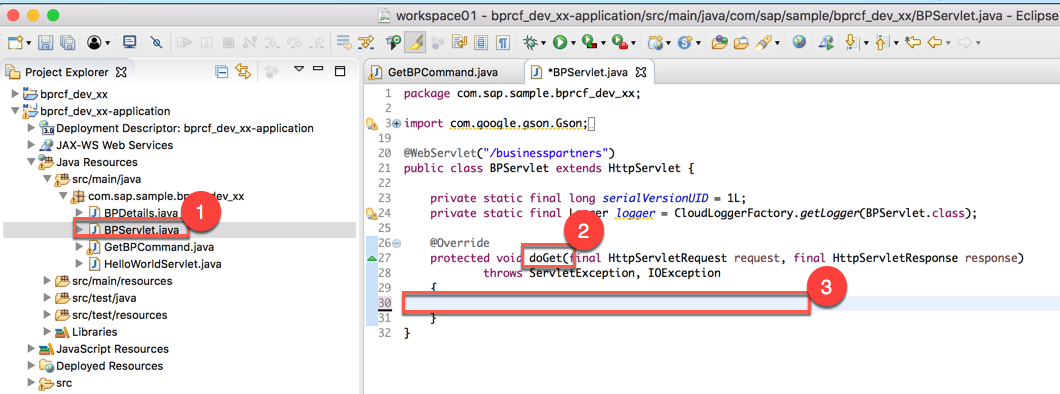
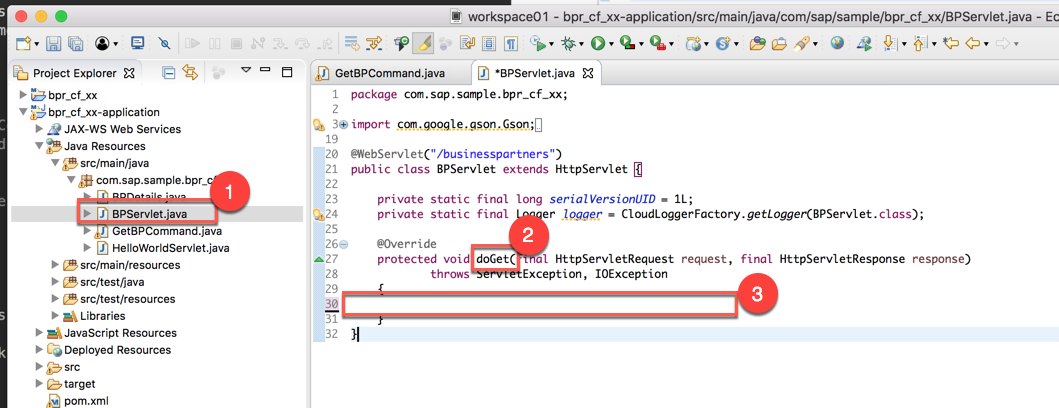
Exercise 08 updated

Changed region(s): [[0.0, 0.0, 1.0, 1.0]]

diff --git a/Exercise_08/Exercise_08.md b/Exercise_08/Exercise_08.md
@@ -11,7 +11,7 @@ In this exercise, you’ll learn how
 * to adapt the integration tests accordingly
 
 **Resiliency** is the ability to deal with failure: if an application can deal with failures, we call it resilient. So resilience is the means by which we achieve availability.
-The SAP S/4HANA Cloud SDK builds upon the Hystrix library in order to provide resilience for your cloud applications. Hystrix comes with many interlocking mechanisms to protect your application from failures. The most important are timeouts, thread-pools and circuit-breakers.
+The SAP S/4HANA Cloud SDK builds upon the [Hystrix](https://github.com/Netflix/Hystrix/wiki) library in order to provide resilience for your cloud applications. Hystrix comes with many interlocking mechanisms to protect your application from failures. The most important are timeouts, thread-pools and circuit-breakers.
 
 - **Timeouts**: Hystrix allows setting custom timeout durations for every remote service. If the response time of a remote service exceeds the specified timeout duration, the remote service call is considered as failure. This value should be adapted according to the mean response time of the remote service
 - **Thread-pools**: By default, every command has a separate thread-pool from which it can requests threads to execute the remote service call in. This has multiple benefits: every command is isolated from your application, so whatever happens in these threads will not affect the performance of your application. Also, the usage of threads allows Hystrix to perform remote service calls asynchronously and concurrently. These threads are non-container-managed, so regardless of how many threads are used by your Hystrix commands, they do not interfere with your runtime container.
@@ -49,14 +49,17 @@ Here below are prerequisites for this exercise.
 
 
 ### <a name="make-resilient"></a> Make the application resilient
-In this chapter you are going to see how to make the application resilient. In the previous exercise we created a simple servlet that uses the SDK’s OData abstractions to retrieve Business Partners from a S/4HANA system. In order to make this servlet resilient, we have to wrap it in an **ErpCommand**. 
+In this chapter you are going to see how to make the application resilient. In the previous exercise we created a simple servlet that uses the SDK’s OData abstractions to retrieve Business Partners from a S/4HANA Cloud system. In order to make this servlet resilient, we have to wrap it in an **ErpCommand**. 
 
 1. Open Eclipse IDE and load the project created in the previous exercise  
 	![](images/01.png)
+
 1. Right click on the the **application** module and select **New -> Class**  
 	![](images/02.png)
+
 1. Create a new Java class named **GetBPCommand** and click **Finish**  
 	![](images/03.png)
+
 1. Paste in the following content (remember that **xx** must be replaced with your workstation ID) and **save** the file. As you can see here we are wrapping the same query we have in the BPServlet class into an ErpCommand. The GetBPCommand class inherits from ErpCommand, which is the SDK’s abstraction to provide easy to use Hystrix commands. To implement a valid ErpCommand we need to
 	- **provide a constructor**: here we simply add a constructor that takes an ErpConfigContext as parameter
 	- **override the run() method**: again, we can simply use the code we used to call our OData service in the previous exercise, and put it into the run() method. No changes are needed!
@@ -64,7 +67,7 @@ In this chapter you are going to see how to make the application resilient. In t
 	Additionally, by overriding the **getFallback()** method, we can provide a fallback if the remote service call should fail. In this case we simply return an empty list. We could also serve static data or check wether we have already cached a response to this call.
 
 	```java
-	package com.sap.sample.bprcf_dev_xx;
+	package com.sap.sample.bpr_cf_xx;
 	
 	import org.slf4j.Logger;	
 	import java.util.List;
@@ -107,9 +110,10 @@ In this chapter you are going to see how to make the application resilient. In t
 	```
 	![](images/04.png)
 
-1. Now we need to adapt the old BPServlet class to use this new command. Open the *BPServlet.java* class. Select the entire content of the **doGet** method and delete it  
+1. Now we need to adapt the old **BPServlet** class to use this new command. Open the *BPServlet.java* class. Select the entire content of the **doGet** method and delete it  
 	![](images/05.png)
-1. In the **doGet** method, paste in the following content
+
+1. In the **doGet** method, paste the following content
 
 	```java
     final ErpConfigContext configContext = new ErpConfigContext();
@@ -124,10 +128,11 @@ In this chapter you are going to see how to make the application resilient. In t
 
 1. Feel free to remove the unused imports from this file if you want  
 	![](images/07.png)
+
 1. This is how the new *BPServlet* file should look like
 
 	```java
-	package com.sap.sample.bprcf_dev_xx;
+	package com.sap.sample.bpr_cf_xx;
 	
 	import com.google.gson.Gson;
 	import org.slf4j.Logger;
@@ -144,66 +149,59 @@ In this chapter you are going to see how to make the application resilient. In t
 	@WebServlet("/businesspartners")
 	public class BPServlet extends HttpServlet {
 	
-		private static final long serialVersionUID = 1L;
-		private static final Logger logger = CloudLoggerFactory.getLogger(BPServlet.class);
+	    private static final long serialVersionUID = 1L;
+	    private static final Logger logger = CloudLoggerFactory.getLogger(BPServlet.class);
 	
-		@Override
-		protected void doGet(final HttpServletRequest request, final HttpServletResponse response)
-				throws ServletException, IOException {
-			final ErpConfigContext configContext = new ErpConfigContext();
-			final List<BPDetails> result = new GetBPCommand(configContext).execute();
+	    @Override
+	    protected void doGet(final HttpServletRequest request, final HttpServletResponse response)
+	            throws ServletException, IOException
+	    {
+	    	final ErpConfigContext configContext = new ErpConfigContext();
+	    	final List<BPDetails> result = new GetBPCommand(configContext).execute();
 	
-			response.setContentType("application/json");
-			response.getWriter().write(new Gson().toJson(result));
-		}
+	    	response.setContentType("application/json");
+	    	response.getWriter().write(new Gson().toJson(result));
+	    	
+	    }
 	}
 	```
 
 	![](images/08.png)
 	
 1. Save the file
+
 1. Expand the **root** module of your project and select the *pom.xml* file. Then click on the small play button on the toolbar. Select the **Maven build** goal and click **OK**  
 	![](images/09.png)
-1. Specify the **clean install** goals if required and click **Run**  
-	![](images/10.png)
-1. Building should end with a BUILD SUCCESS message  
-	![](images/11.png)
-1. Click on the Terminal pane and type in the `cf push` command to deploy the application to Cloud Foundry  
 
+1. Specify the **clean install** goals if required and click **Run**  
+
+1. Building should end with a BUILD SUCCESS message  
+	![](images/10.png)
+
+1. Click on the Terminal pane and type in the `cf push` command to deploy the application to Cloud Foundry  
+	![](images/11.png)
+
+	> **NOTE:** if for any reason you deleted your application before, you need to set back the destination which points to our back-end system. Please refer to the previous exercise for this.
+
+1. Opening the browser and pasting in the URL you got when pushing operation is finished, you should be still able to see the Business Partners list  
 	![](images/12.png)
 
-	> **NOTE:** if you deleted your application before, you need to set back the destination which points to our back-end system with the command:
-	`cf set-env bprcf_dev_xx destinations "[{name: 'ErpQueryEndpoint', url: 'https://my300271-api.s4hana.ondemand.com', username: 'TECHPM', password: 'W@lcome1'}]"`
-	replacing "**xx**" with your workstation ID.  Of course, you need to restage the app as well with the command `cf restage bprcf_dev_xx`, again replacing **xx** with your workstation ID.
-
-1. If you open the browser and go again to the URL <https://bprcf_dev_xx.cfapps.eu10.hana.ondemand.com/businesspartners>, where **xx** must be replaced with your workstation ID, you should get an "**Internal Server Error**"  
-	![](images/13.png)  
-The SDK integrates the circuit breakers and other resilience features of Hystrix with the SAP Cloud Platform, specifically with the tenant and user information. For example, circuit breakers are maintained per tenant to ensure that they are properly isolated. As of now, our application is not multitenant: we will come to this in the next exercises. When running such a non-multitenant application with caching, the required tenant and user information needs to be supplied separately, or be mocked. To do so, in the terminal pane, run the command
-	
-	`cf set-env bprcf_dev_xx ALLOW_MOCKED_AUTH_HEADER true`
-	
-	![](images/14.png)  
-
-	>**NOTE:** there are some security implications in this. When the variable **ALLOW\_MOCKED\_AUTH\_HEADER** is explicitly set to **true**, the SDK will fall back to providing mock tenant and user information when no actual tenant information is available. This setting must never be enabled in productive environments. It is only meant to make testing easier if you do not yet implement the authentication mechanisms of Cloud Foundry. Delete the environment variable as soon as it is no longer required, for example, because you implemented security on your application. Again, you will come to this in the next exercise.
-
-1. Restage the app
-	![](images/15.png)
-1. Opening the browser and typing in the URL <https://bprcf_dev_xx.cfapps.eu10.hana.ondemand.com/businesspartners>, where **xx** must be replaced with your workstation ID, you should be now able to see again the Business Partners list  
-	![](images/16.png)
 1. Congratulation! You have successfully implemented resilience in your application using the S/4HANA Cloud SDK.
 
 
 ### <a name="adapt-integration-tests"></a> Adapt the integration tests accordingly
 In this chapter you are going to implement a new Java class to test the GetBPCommand we have created in the previous chapter.
 
-1. In Eclipse IDE, right click on the **integration-tests** module and choose **New --> Class**  
-	![](images/17.png)
+1. In Eclipse IDE, right click on the **integration-tests** module and choose **New -> Class**  
+	![](images/13.png)
+
 1. Create a new Java Class named **GetBPCommandTest** and click **Finish**  
-	![](images/18.png)
+	![](images/14.png)
+
 1. Paste in the following content (remember that **xx** must be replaced with your workstation ID) and **save** the file
 
 	```java
-	package com.sap.sample.bprcf_dev_xx;
+	package com.sap.sample.bpr_cf_xx;
 	
 	import org.junit.BeforeClass;
 	import org.junit.Test;
@@ -254,24 +252,29 @@ In this chapter you are going to implement a new Java class to test the GetBPCom
 	            }
 	        });
 	    }
-	
 	}
 	```
-	![](images/19.png)
-We use JUnit’s @BeforeClass annotation to setup our mockUtils and to mock the ERP destinations. In the tests (@Test) we do the following: first we create a new request context using mockUtil.requestContextExecutor and provide it with a new Executable; then we override the Executable’s execute() method, where we finally put the code that we actually want to test together with the corresponding assertions.  
+	![](images/15.png)
+
+We use JUnit’s **@BeforeClass** annotation to setup our mockUtils and to mock the ERP destinations. In the tests (@Test) we do the following: first we create a new request context using mockUtil.requestContextExecutor and provide it with a new Executable; then we override the Executable’s execute() method, where we finally put the code that we actually want to test together with the corresponding assertions.  
 	- For **testWithSuccess()**, we correctly provide the default ERP destination information using mockUtil. For the sake of simplicity we simply assert that the response is not empty.  
 	- For **testWithFallback()**, we intentionally provide a not existing destination in order to make the command fail. Since we implemented a fallback for our command that returns an empty list, we assert that we actually receive an empty list as response.
+
 1. Build the application again  
-	![](images/20.png)
+	![](images/16.png)
+
 1. At the end of the execution, you should receive a BUILD SUCCESS message. Of course this operation also performs the required integration tests  
-	![](images/21.png)
+	![](images/17.png)
+
 1. Run again a `cf push` command to Cloud Foundry  
-	![](images/22.png)
-1. Check that the application is still providing the expected results    
-	![](images/23.png)
+	![](images/18.png)
+
+1. Check that the application is still providing the expected results  
+	![](images/19.png)
+
 1. Congratulation! You have successfully implemented integration tests into your application using the S/4HANA Cloud SDK.
 
 
 ## Summary
-This concludes the exercise. You should have learned how implement Hystrix resilience in your application and add a further integration test for the new implemented class. Please proceed with exercise 09.
+This concludes the exercise. You should have learned how implement Hystrix resilience in your application and add a further integration test for the new implemented class. Please proceed with the next exercise.
 
